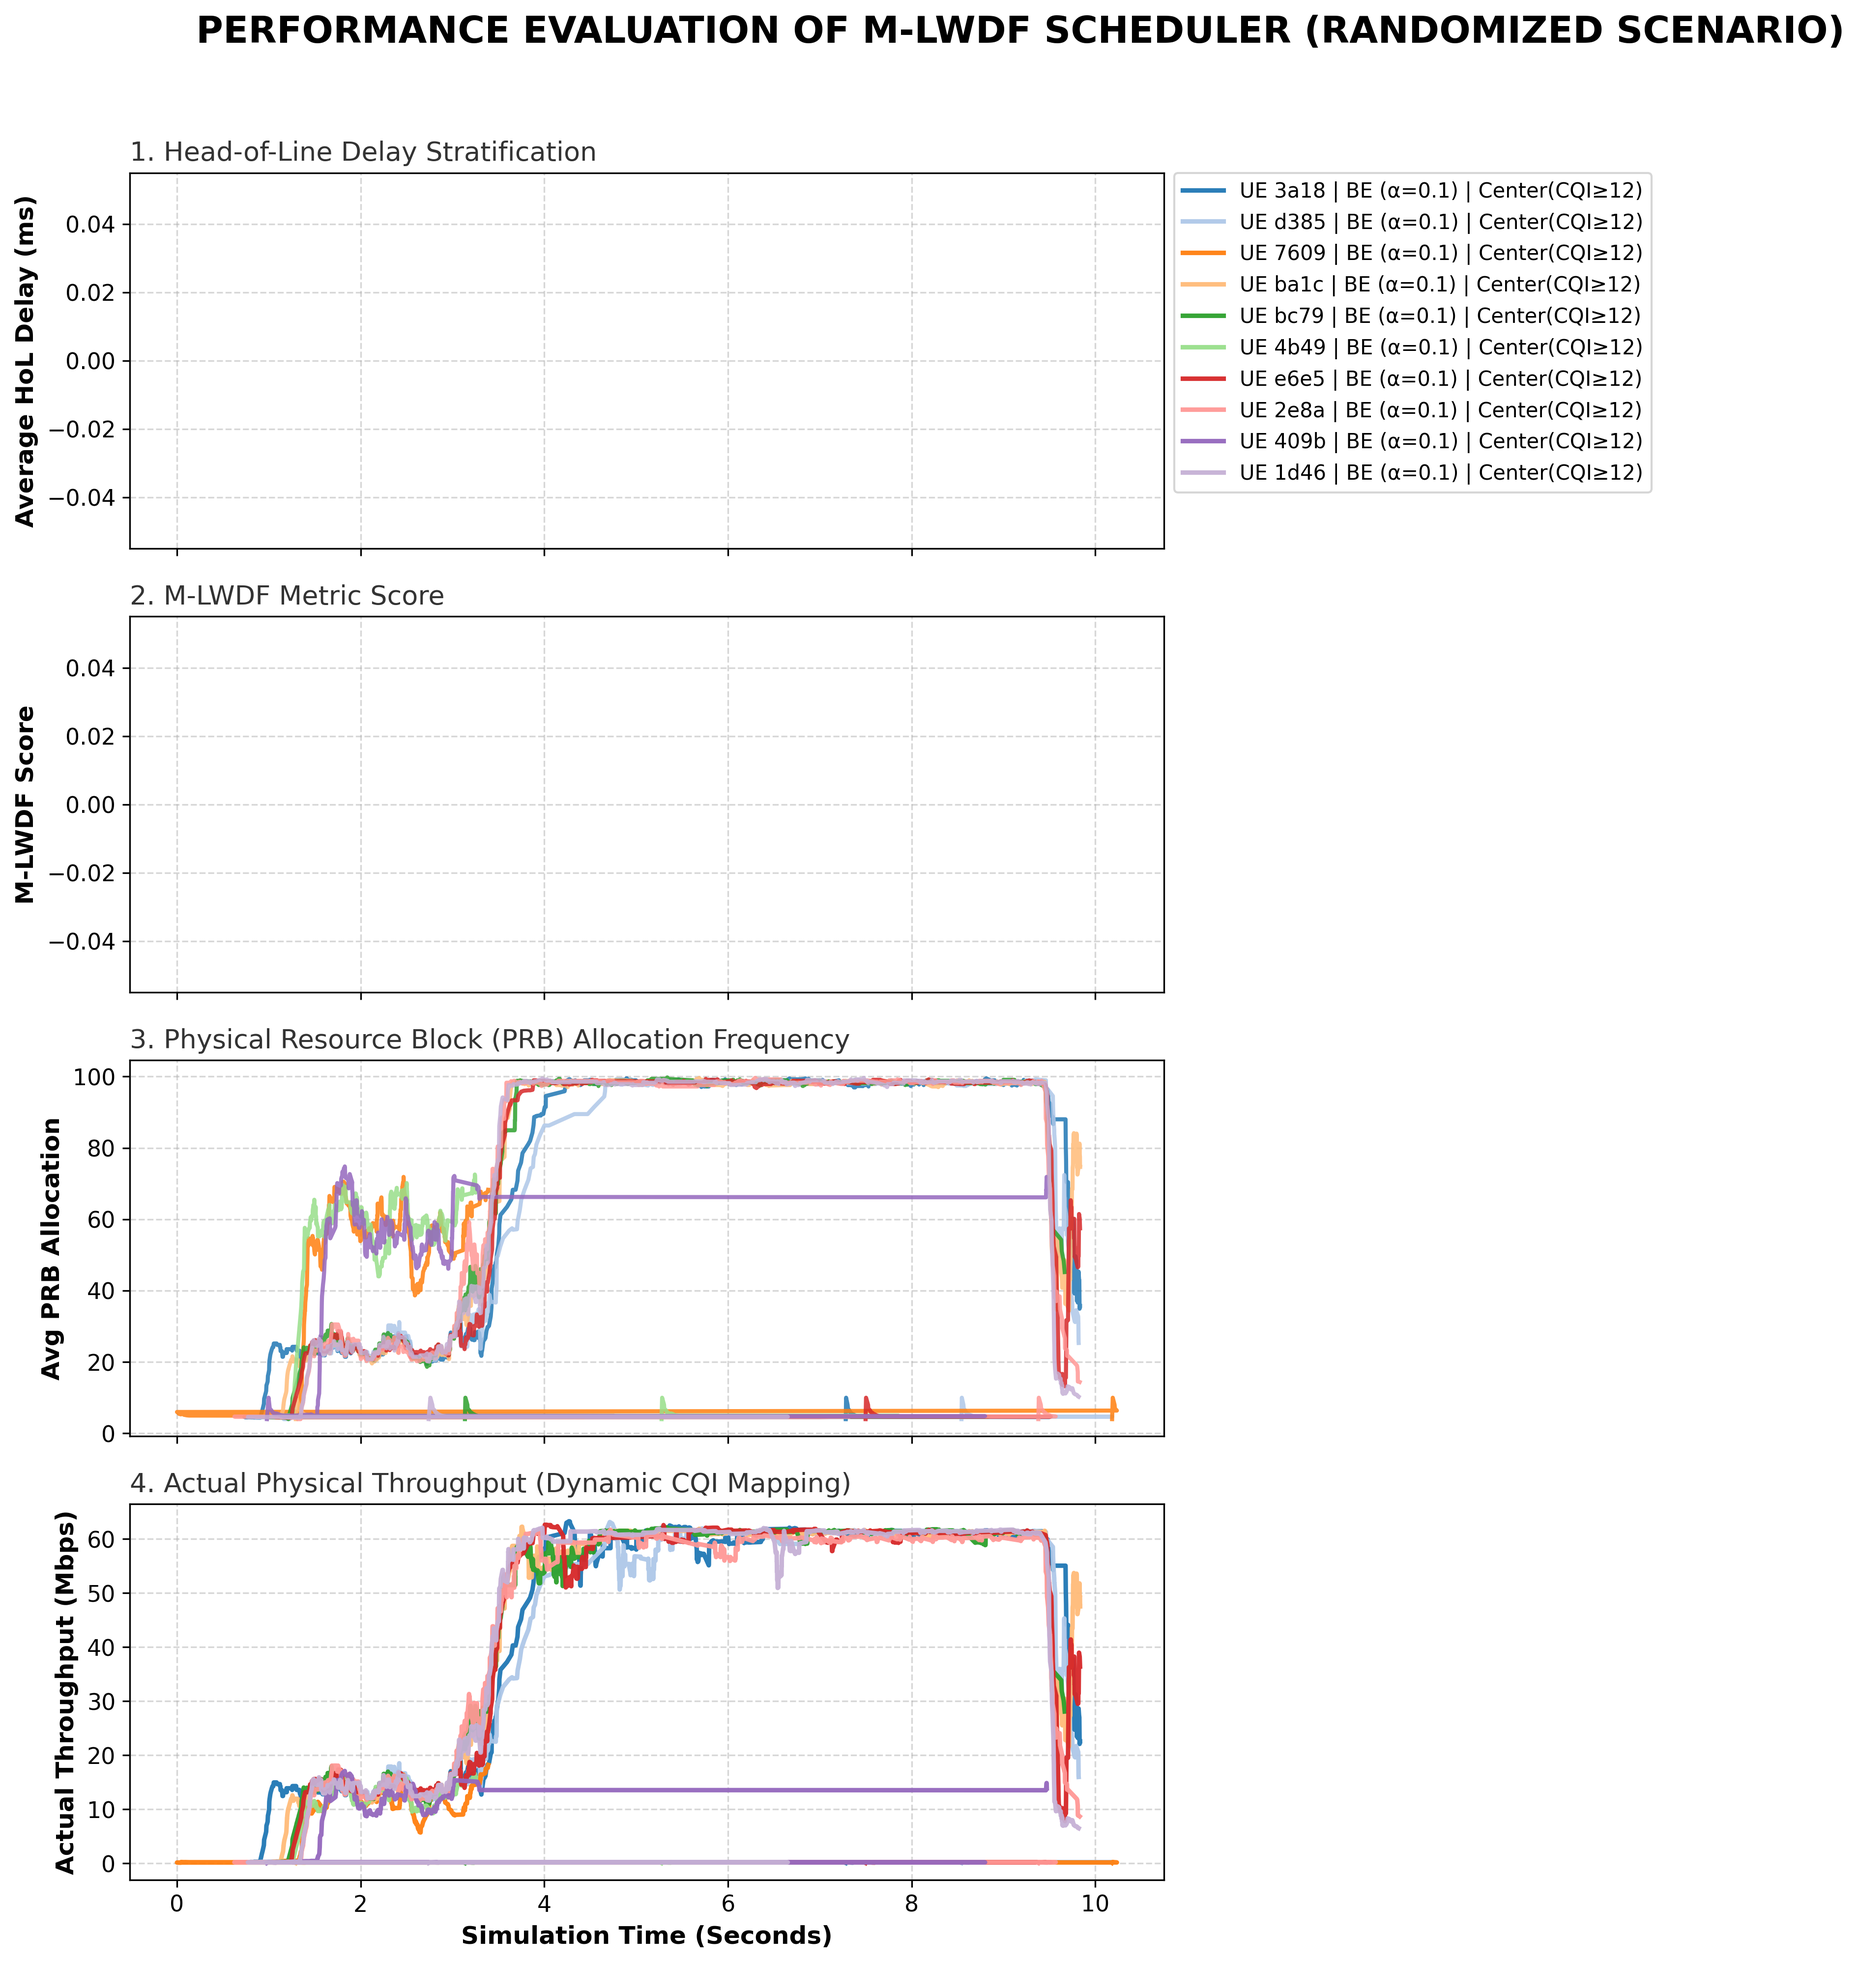
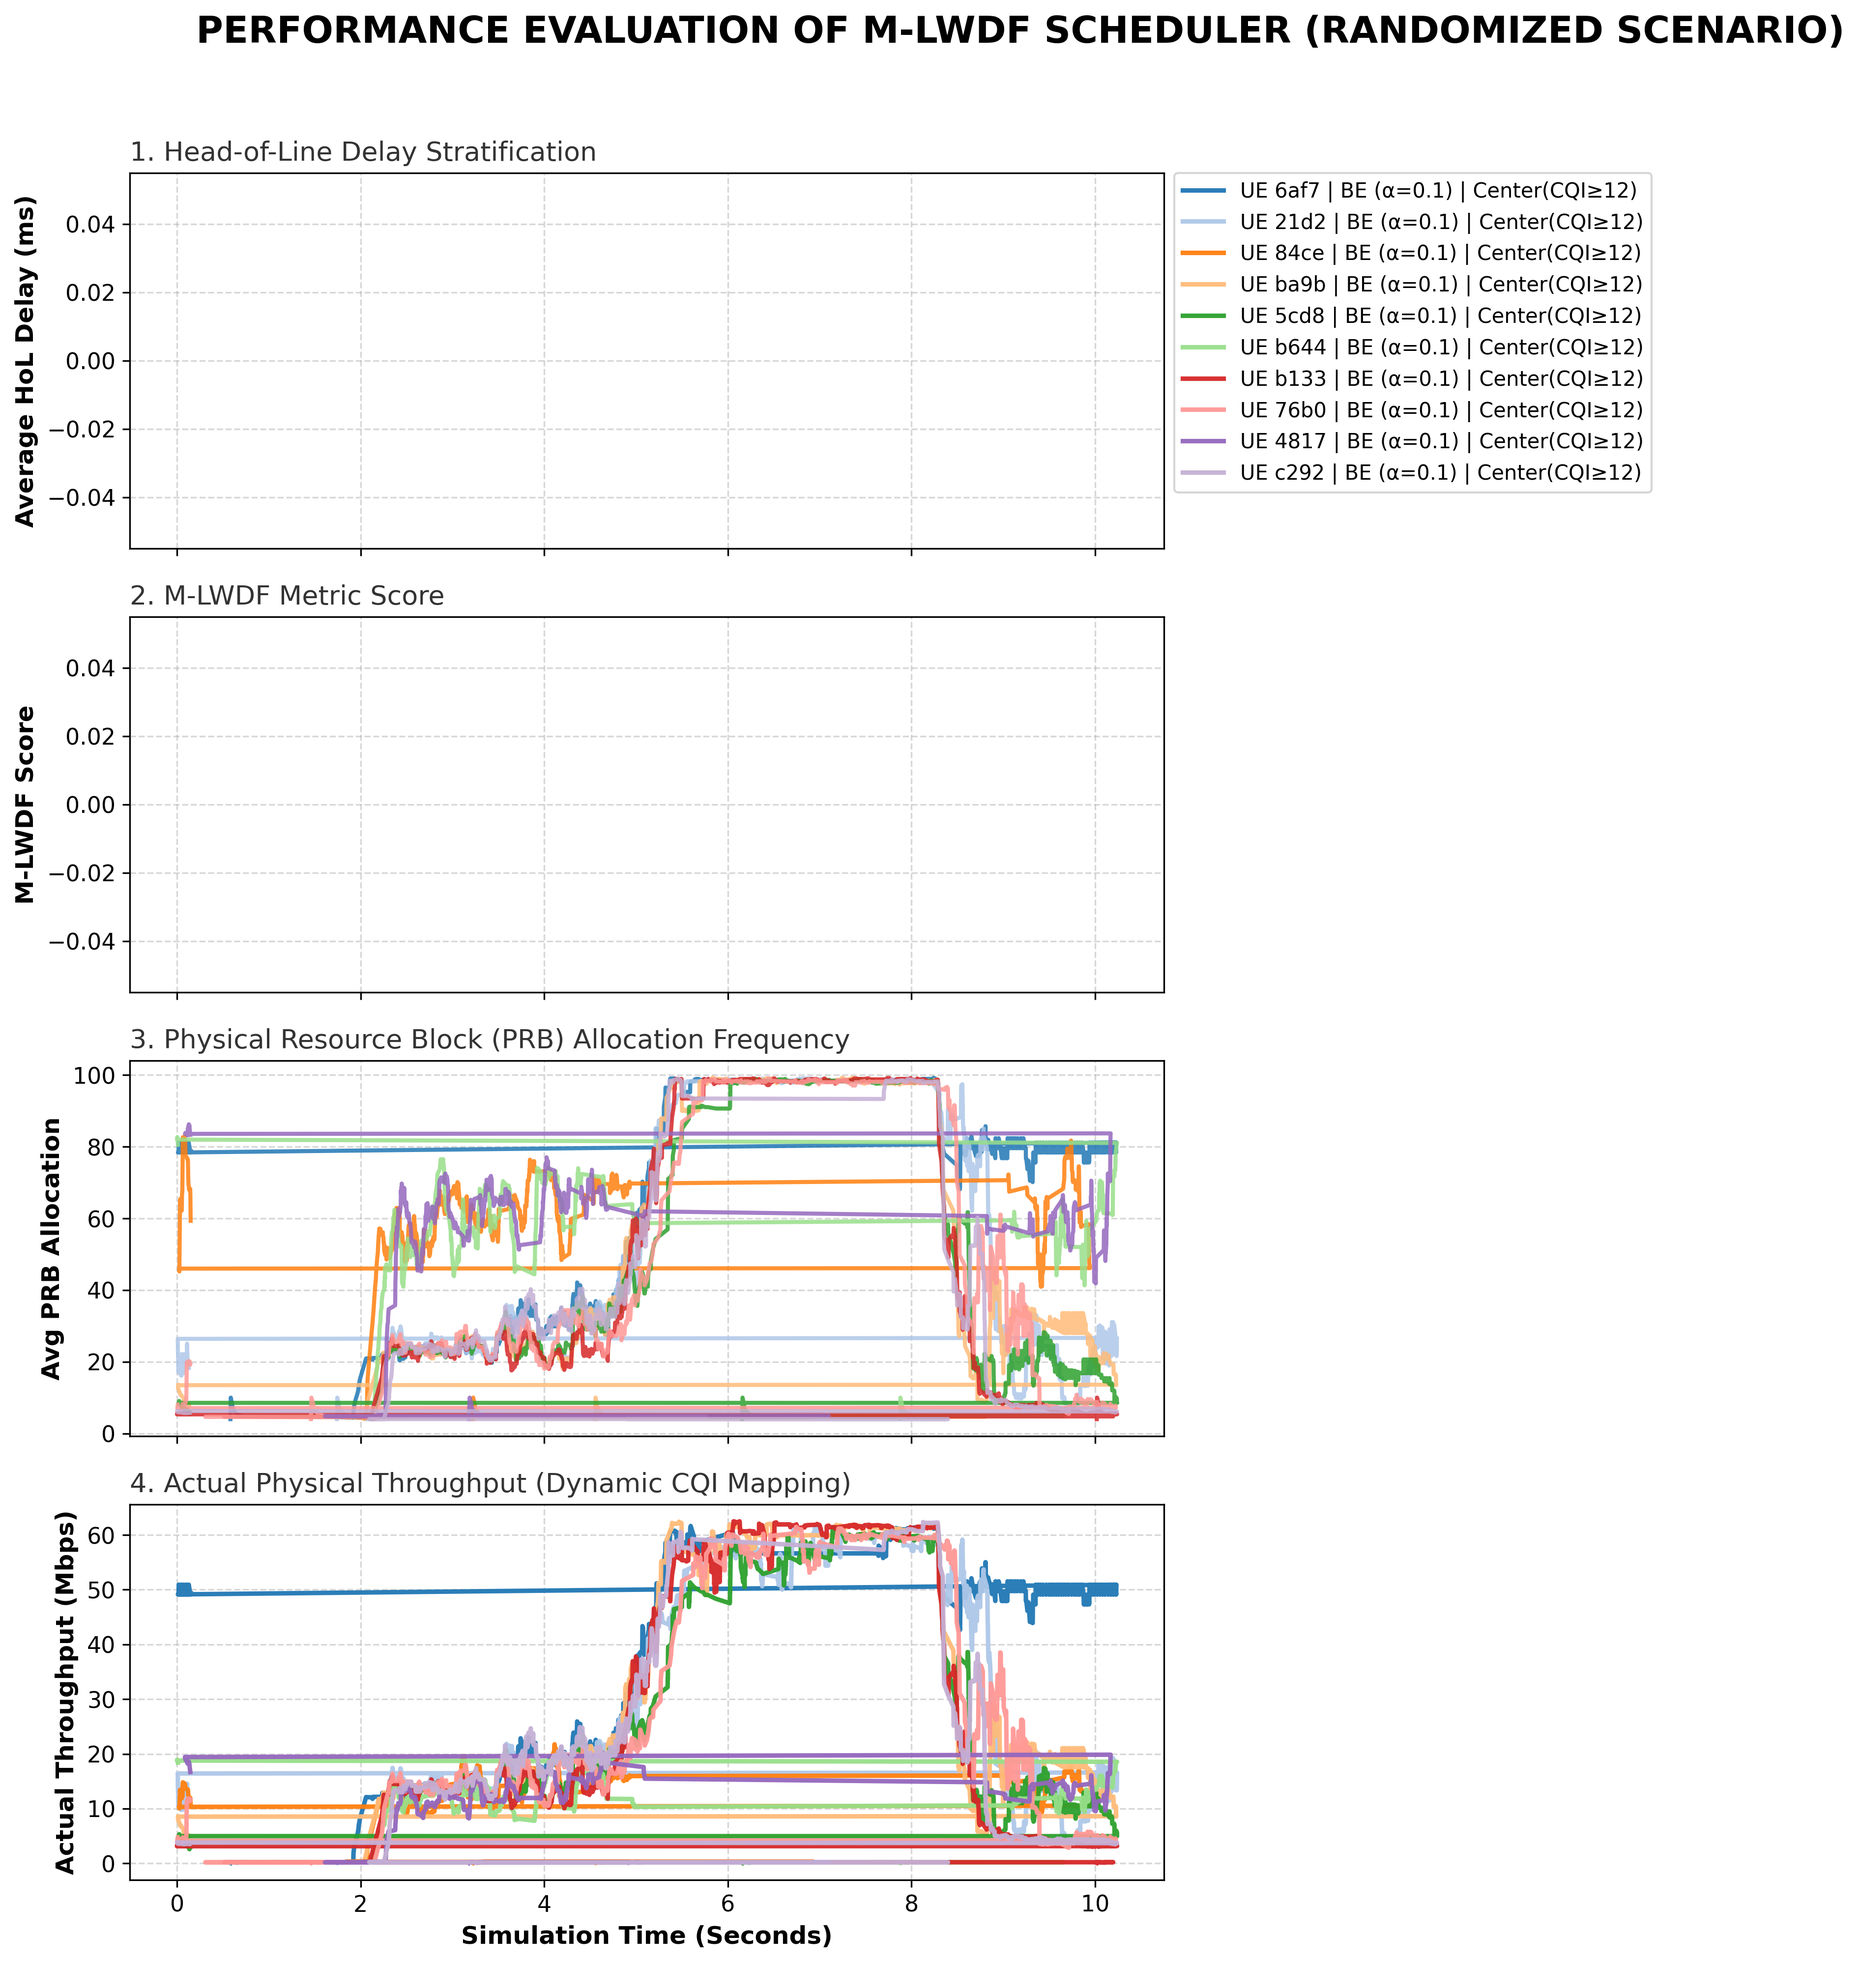
fix [MaxCI]: Minor issue in cqi profile logging

diff --git a/openair2/LAYER2/MAC/eNB_scheduler_dlsch.c b/openair2/LAYER2/MAC/eNB_scheduler_dlsch.c
@@ -758,7 +758,7 @@ typedef struct {
                   ue_template->oldmcs1[harq_pid], TBS,
                   /*sdu_len=*/0, ue_sched_ctrl->dl_cqi[0], /*retx=*/1,
                   g_mlwdf_delay[UE_id], g_mlwdf_thr[UE_id], g_mlwdf_score[UE_id],
-                  g_ue_qos_alpha[UE_id], g_ue_cqi_profile[UE_id], harq_pid};
+                  g_ue_qos_alpha[UE_id], cqi_prof, harq_pid};
           else if (nb_rb > csv_buf[found].nb_rb) {
               csv_buf[found].nb_rb    = nb_rb;
               csv_buf[found].rb_util  = rb_util;
@@ -941,7 +941,7 @@ typedef struct {
                     mcs, TBS,
                     sdu_length_total, ue_sched_ctrl->dl_cqi[0], /*retx=*/0,
                     g_mlwdf_delay[UE_id], g_mlwdf_thr[UE_id], g_mlwdf_score[UE_id],
-                    g_ue_qos_alpha[UE_id], g_ue_cqi_profile[UE_id], harq_pid};
+                    g_ue_qos_alpha[UE_id], cqi_prof, harq_pid};
             else if (nb_rb > csv_buf[found].nb_rb) {
                 csv_buf[found].nb_rb    = nb_rb;
                 csv_buf[found].rb_util  = rb_util;
